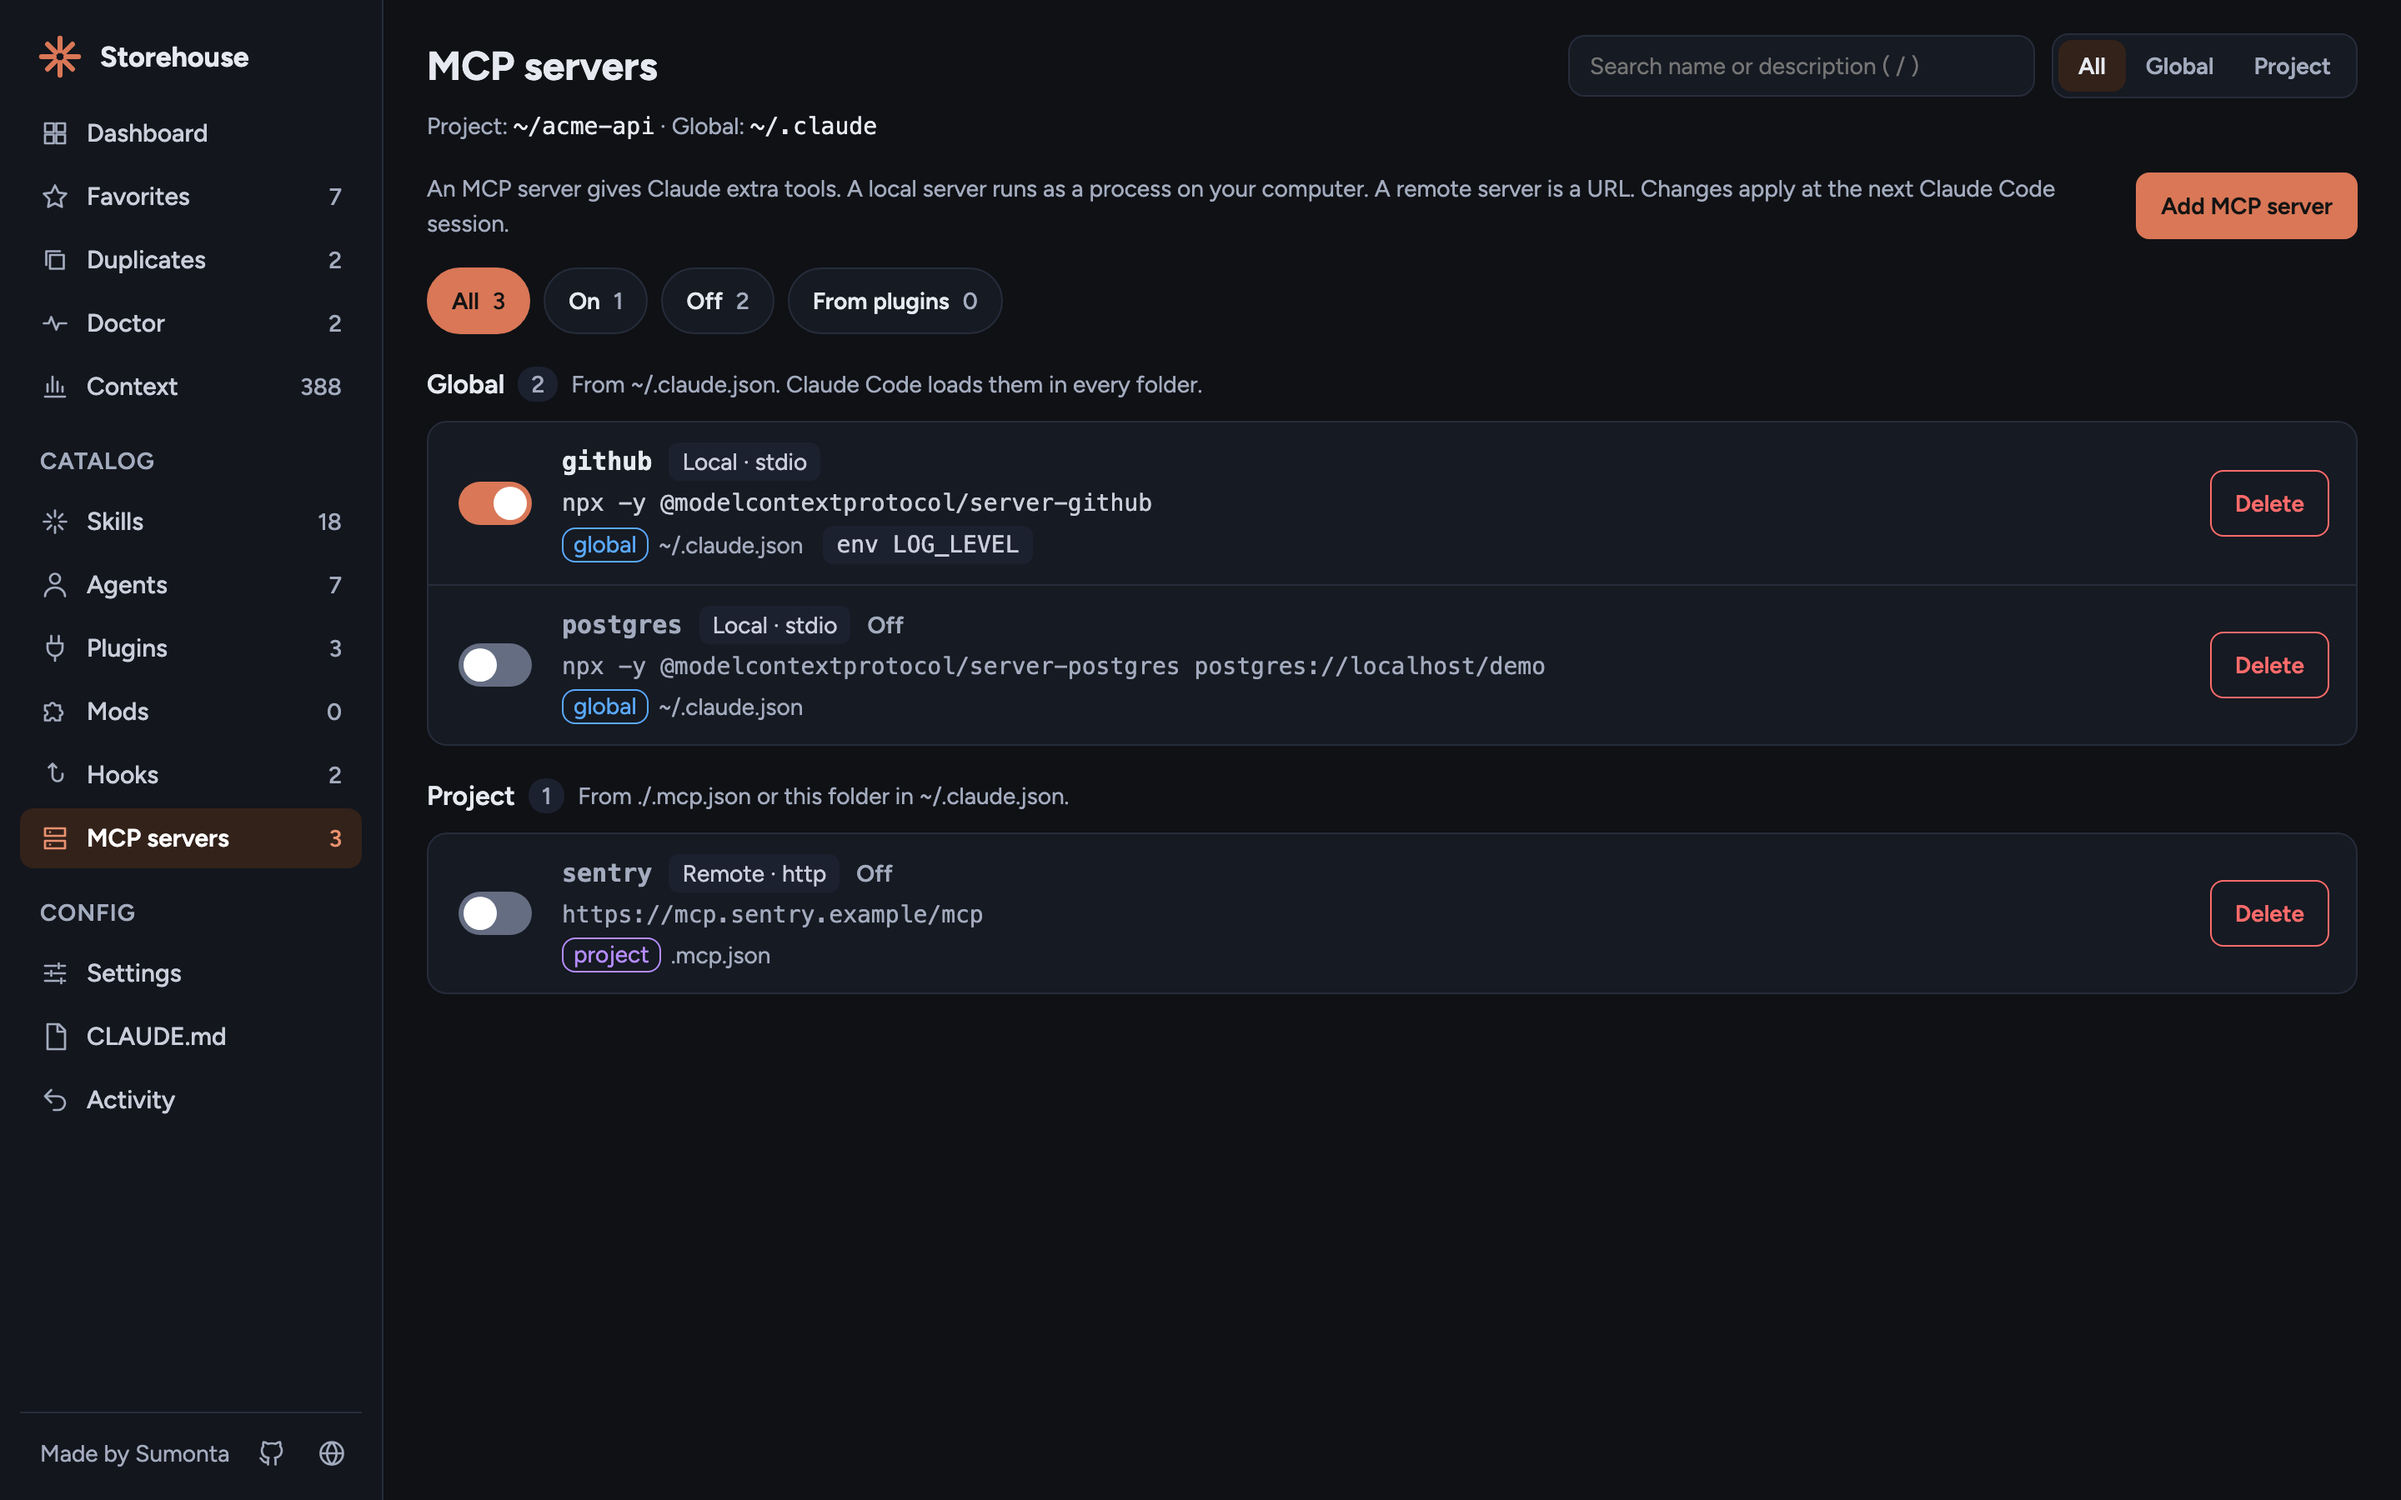
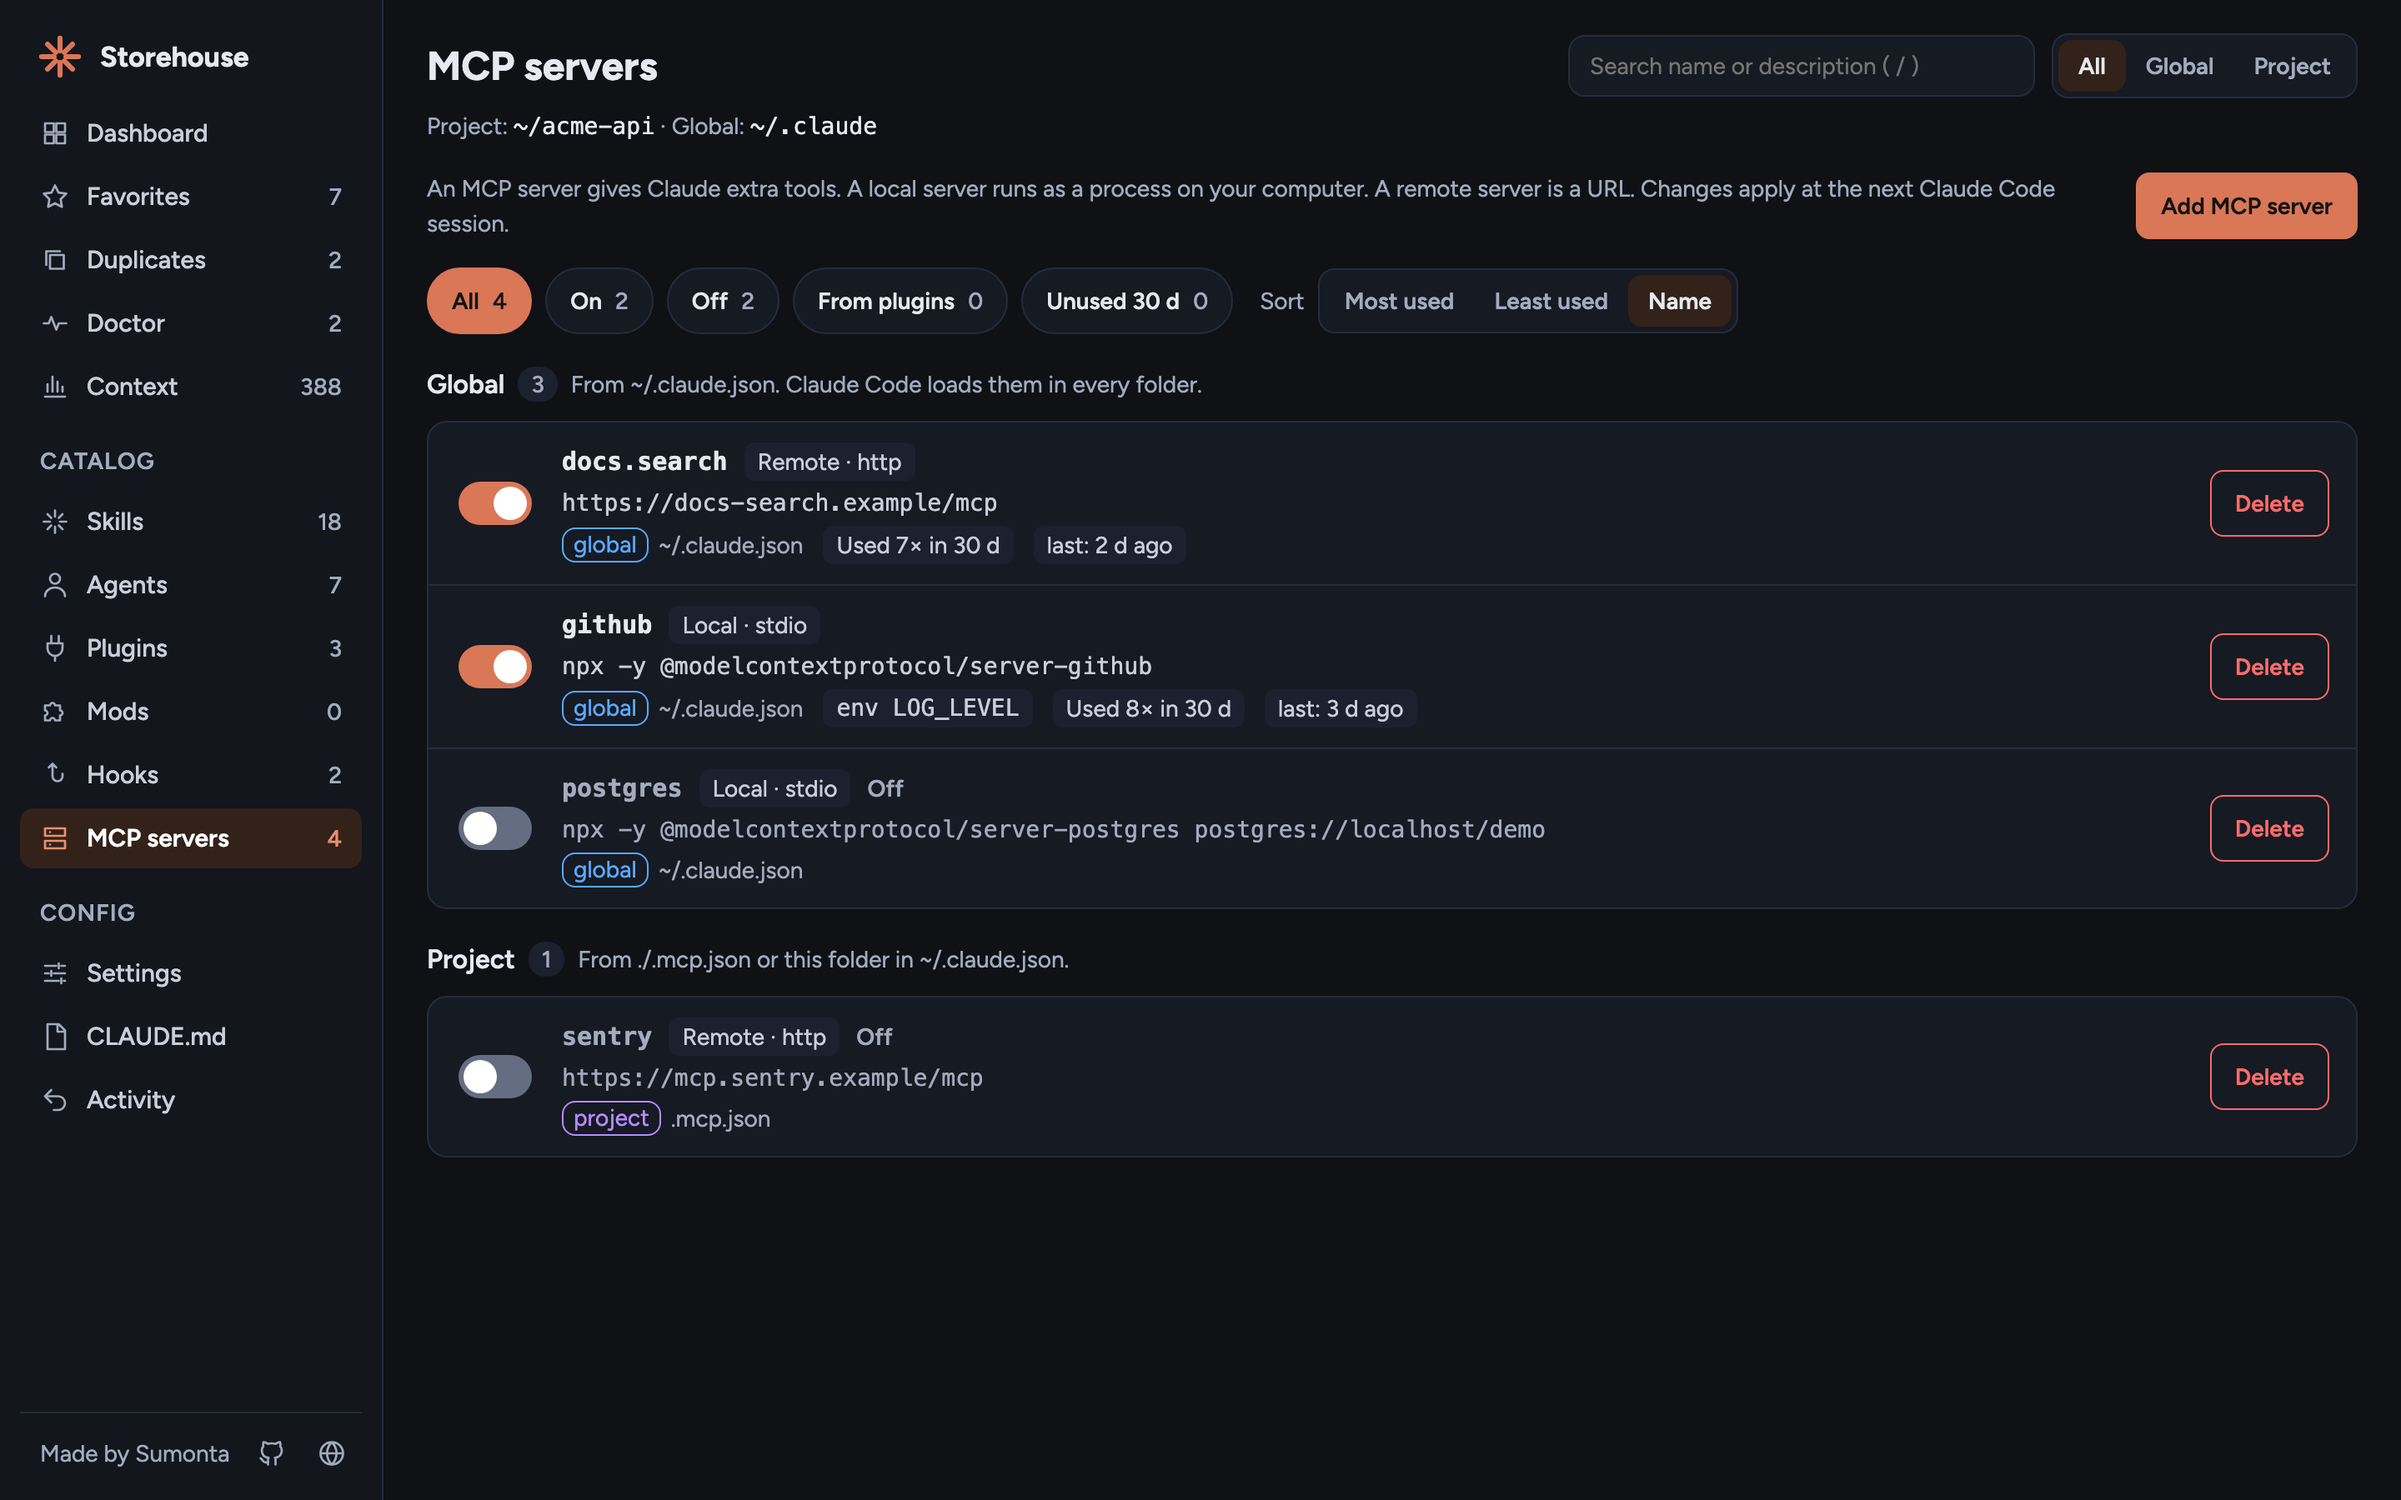
docs(site): describe 30-day use per item and update the privacy text
Recapture the Skills and MCP screenshots from the demo.

diff --git a/site/index.html b/site/index.html
@@ -208,7 +208,7 @@
             <ul>
               <li>API-equal cost of your Claude Code use, by model</li>
               <li>Tokens, sessions, projects, and prompt-cache savings</li>
-              <li>Read from token counts only, never from message text</li>
+              <li>Reads token counts and tool names, never prompts or message text</li>
               <li>Counts for skills, agents, plugins, hooks, and MCP servers</li>
             </ul>
             <a class="more" href="#demo" data-demo="dash">Open the Dashboard in the demo →</a>
@@ -233,8 +233,8 @@
               click, and a toast names the file after.
             </p>
             <ul>
-              <li>Filter by scope: All, Global, or Project</li>
-              <li>Press <kbd>/</kbd> to search names and descriptions</li>
+              <li>Filter by scope and press <kbd>/</kbd> to search</li>
+              <li>Use in the last 30 days, an Unused filter, and a sort by use</li>
               <li>Plugin skills show "via plugin X" and follow their plugin</li>
               <li>Fork a plugin skill to <code>~/.claude/skills</code></li>
             </ul>
@@ -243,7 +243,7 @@
           <figure class="frame">
             <img
               src="screenshots/skills.png"
-              alt="Skills page: global, project, and plugin skills, each with a switch, a star, and a menu"
+              alt="Skills page with switches, 30-day use chips, an Unused 30 d filter, a sort by use, and a banner to switch off unused skills"
               loading="lazy"
               width="2880"
               height="1800"
@@ -322,7 +322,7 @@
           <figure class="frame">
             <img
               src="screenshots/mcp.png"
-              alt="MCP servers page with transport, command, and source for each server, and masked environment values"
+              alt="MCP servers page with transport, command, source, masked environment values, and 30-day use for each server"
               loading="lazy"
               width="2880"
               height="1800"
@@ -627,8 +627,8 @@ claude-storehouse</code></pre>
             <div class="panel">
               <h3>Safety and privacy</h3>
               <p>
-                No server outside your machine, no account, no analytics. Only token counts are read from session files,
-                never message text.
+                No server outside your machine, no account, no analytics. Session files give only token counts, tool
+                names, and the skill, agent, or MCP server name of each call. Never prompts or message text.
               </p>
               <table>
                 <tr>

diff --git a/README.md b/README.md
@@ -68,7 +68,7 @@ After a few months with Claude Code you have dozens of skills, a handful of plug
 - Counts for skills, agents, plugins, hooks, and MCP servers, with how many are on and off.
 - API-equal cost of your Claude Code use, by model, from the session files in `~/.claude/projects`.
 - Tokens, sessions, projects, and how much the prompt cache saved.
-- Only token counts are read from session files, never message text.
+- Session files give only token counts, tool names, and the skill, agent, or MCP server name of each call. Never prompts or message text.
 - Your favorites, recent changes, and which Claude Code files this project has.
 
 ### Skills and agents
@@ -77,8 +77,9 @@ After a few months with Claude Code you have dozens of skills, a handful of plug
 - Each switch shows the file it writes before you click. A toast names the file after.
 - Filter by scope (All, Global, Project) and press `/` to search.
 - Plugin skills show "via plugin X" and follow their plugin. Fork one to `~/.claude/skills` to make your own version.
+- Use in the last 30 days for each skill, agent, and MCP server, with an Unused 30 d filter, a sort by use, and "Switch off N" for the unused ones.
 
-![Skills page with on/off switches, favorites, and the file each switch writes](https://raw.githubusercontent.com/Sumonta056/claude-storehouse/main/docs/images/skills.png)
+![Skills page with on/off switches, 30-day use chips, an Unused 30 d filter, a sort by use, and a banner to switch off unused skills](https://raw.githubusercontent.com/Sumonta056/claude-storehouse/main/docs/images/skills.png)
 
 ### Find duplicates
 
@@ -144,7 +145,7 @@ After a few months with Claude Code you have dozens of skills, a handful of plug
 - MCP servers from `~/.claude.json`, `.mcp.json`, and plugins, with secrets masked.
 - Add a hook or an MCP server from a form, or remove one.
 
-![MCP servers page with transport, command, and source for each server](https://raw.githubusercontent.com/Sumonta056/claude-storehouse/main/docs/images/mcp.png)
+![MCP servers page with transport, command, source, and 30-day use for each server](https://raw.githubusercontent.com/Sumonta056/claude-storehouse/main/docs/images/mcp.png)
 
 ### Edit in place, undo anything
 
@@ -216,18 +217,18 @@ Global switches write `~/.claude/settings.json`. Project switches write `./.clau
 
 ## Safety and privacy
 
-| Topic          | Rule                                                                                                           |
-| -------------- | -------------------------------------------------------------------------------------------------------------- |
-| Backups        | Before any write, the old file is copied to `~/.claude/backups/storehouse/`. The last 20 per file are kept.    |
-| Atomic writes  | Each write goes to a temp file, then a rename. A file that does not parse is never touched.                    |
-| Delete         | Moves the item to `~/.claude/backups/storehouse/trash/`. Restore it from the Backups panel.                    |
-| Local only     | The server listens on `127.0.0.1` and rejects a foreign `Host` header.                                         |
-| Token          | Every API call needs the random token from the start URL. Without it the server returns 401.                   |
-| Allow-list     | Writes are limited to `~/.claude`, `~/.claude.json`, and the project folder. Plugin cache files are read-only. |
-| Session files  | The usage band reads only token counts. It never keeps or returns message text.                                |
-| Doctor         | Reads only. It never writes a file or runs a command, and it returns env key names, never values.              |
-| Effective view | Reads only. Env values that look like secrets are masked before they leave the server.                         |
-| Dependencies   | The only runtime dependency is [`open`](https://www.npmjs.com/package/open), to launch the browser.            |
+| Topic          | Rule                                                                                                                        |
+| -------------- | --------------------------------------------------------------------------------------------------------------------------- |
+| Backups        | Before any write, the old file is copied to `~/.claude/backups/storehouse/`. The last 20 per file are kept.                 |
+| Atomic writes  | Each write goes to a temp file, then a rename. A file that does not parse is never touched.                                 |
+| Delete         | Moves the item to `~/.claude/backups/storehouse/trash/`. Restore it from the Backups panel.                                 |
+| Local only     | The server listens on `127.0.0.1` and rejects a foreign `Host` header.                                                      |
+| Token          | Every API call needs the random token from the start URL. Without it the server returns 401.                                |
+| Allow-list     | Writes are limited to `~/.claude`, `~/.claude.json`, and the project folder. Plugin cache files are read-only.              |
+| Session files  | Usage reads token counts, tool names, and the skill, agent, or MCP server name of each call. Never prompts or message text. |
+| Doctor         | Reads only. It never writes a file or runs a command, and it returns env key names, never values.                           |
+| Effective view | Reads only. Env values that look like secrets are masked before they leave the server.                                      |
+| Dependencies   | The only runtime dependency is [`open`](https://www.npmjs.com/package/open), to launch the browser.                         |
 
 ## How it works
 
